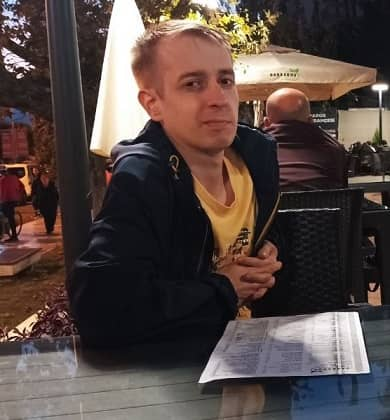
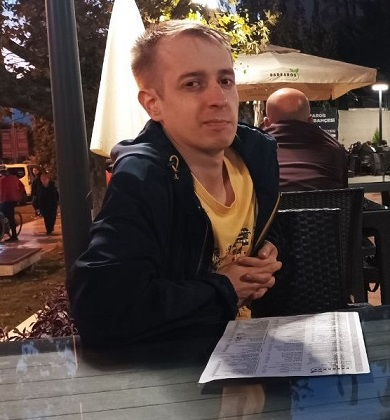
goVer1/21.3

diff --git a/src/components/slider/Slider.js b/src/components/slider/Slider.js
@@ -1,4 +1,3 @@
-'use client';
 import { useState } from "react";
 import styles from "./slider.module.css"
 import Image from "next/image";
@@ -15,7 +14,7 @@ const data = [
 
 export default function Slider() { 
     const [image, setImage] = useState(0);
-    let numbImage = image;
+    // let numbImage = image;
    
     return (
         <div className={styles.sliderBox}> 
@@ -26,7 +25,7 @@ export default function Slider() {
                 
             </div>
 
-            <p className={styles.text}>{data[numbImage].object}</p>           
+            <p className={styles.text}>{data[image].object}</p>           
                       
             <div className={styles.elem}>
                 <button className={styles.button}
@@ -38,7 +37,9 @@ export default function Slider() {
                 >&lang;
                 </button> 
 
-                <Image className={styles.image} src={data[numbImage].src} height={290} width={600} alt={"img object"}/>
+                <div className={styles.imageBorder}>
+                    <Image className={styles.image} src={data[image].src} height={290} width={600} alt={"img object"}/>
+                </div>
                           
                 <button className={styles.button}
                         onClick={(e) => { 

diff --git a/src/components/priceСalculator/priceСalculator.js b/src/components/priceСalculator/priceСalculator.js
@@ -2,7 +2,6 @@ import styles from "./priceСalculator.module.css";
 import { DownloadTableExcel } from 'react-export-table-to-excel';
 import { useRef } from "react";
 
-
 const ourPrice = {
     hous: { ОВиК:{П:50, РД:108}, ЭОМ:{П:43, РД:86}, СС:{П:36, РД: 76}, В:{П:22, РД: 32}, К:{П:22, РД: 32}, ЭЭ:{П:40,}, НВК:{П:220, РД:330},ТП:{П:120, РД:180}, СетиС:{П:72, РД:110}, ЭС:{П:90, РД:130}},
     office: { ОВиК:{П:57, РД:122}, ЭОМ:{П:49, РД:97}, СС:{П:41, РД: 85}, В:{П:24, РД: 36}, К:{П:24, РД: 36}, ЭЭ:{П:42,}, НВК:{П:220, РД:330},ТП:{П:120, РД:180}, СетиС:{П:72, РД:110}, ЭС:{П:90, РД:130}},
@@ -115,11 +114,8 @@ export default function PriceСalculator(props) {
                         <td id="П"> {meter*myPrice.СетиС.П} </td>
                         <td id="РД"> {meter*myPrice.СетиС.РД} </td>
                     </tr>
-
                 </tbody>
-            </table>          
-            
-        </div>      
-
+            </table> 
+        </div> 
     )
 }

diff --git a/src/components/slider/slider.module.css b/src/components/slider/slider.module.css
@@ -7,29 +7,28 @@
 
 .button {
   width: 35px;
-  height: 290px;
- 
+  height: 290px; 
   font-size: 50px; 
   font-weight: bolder;
   border-style: none;
   background-color: rgba(255, 255, 255, 0);
 }
 
-.image{ 
-  object-fit: fill;    
-  /* animation: anim 1s linear forwards; */
+.button:active {
+  color: red;  
 }
 
-/* @keyframes anim{
-  50%{
-    opacity: 0;
-    width: 0;
-  }
-  100%{
-    opacity: 1;
-    width: 640px;
-  }  
-} */
+.image{ 
+  object-fit: fill;  
+  border-radius: 10px;   
+}
+
+.imageBorder {
+  border-style:dashed;
+  border-width: 1px;
+  border-radius: 10px;   
+  height: 290px;
+}
 
 .sliderName {
   display: flex;

diff --git a/src/app/aboutUs/aboutUs.module.css b/src/app/aboutUs/aboutUs.module.css
@@ -1,6 +1,6 @@
 .aboutUs{
-    background: url('/наши сотр.jfif') top left / 60% 60vh no-repeat, 
-    url('/1546852997_1111.jpg') right bottom / 60% 60vh no-repeat;       
+    background: url('/aboutUs1.png') top left / 60% 60vh no-repeat, 
+    url('/aboutUs2.png') right bottom / 60% 60vh no-repeat;       
     height: 100vh;    
     background-repeat: no-repeat; 
     background-color: #e2e3f0fd;

diff --git a/src/components/goHome/goHome.js b/src/components/goHome/goHome.js
@@ -8,8 +8,7 @@ export default function Contact() {
                 <div >
                      &lArr; НАЗАД
                 </div>                
-            </Link>             
-            
+            </Link>       
         </div>
     )
 };

diff --git a/src/app/our-calc/ourCalc.module.css b/src/app/our-calc/ourCalc.module.css
@@ -26,7 +26,7 @@
     width: 350px;
     display: flex;  
     flex-direction: column;
-    align-items: start;
+    align-items:self-start;
     margin-left: 30px; 
 }
 

diff --git a/src/app/contacts/cont.module.css b/src/app/contacts/cont.module.css
@@ -13,7 +13,7 @@
 .head {
     display: flex;
     justify-content:space-between;
-    align-items:start;
+    align-items:flex-start;
     width: 96%;
 }
 
